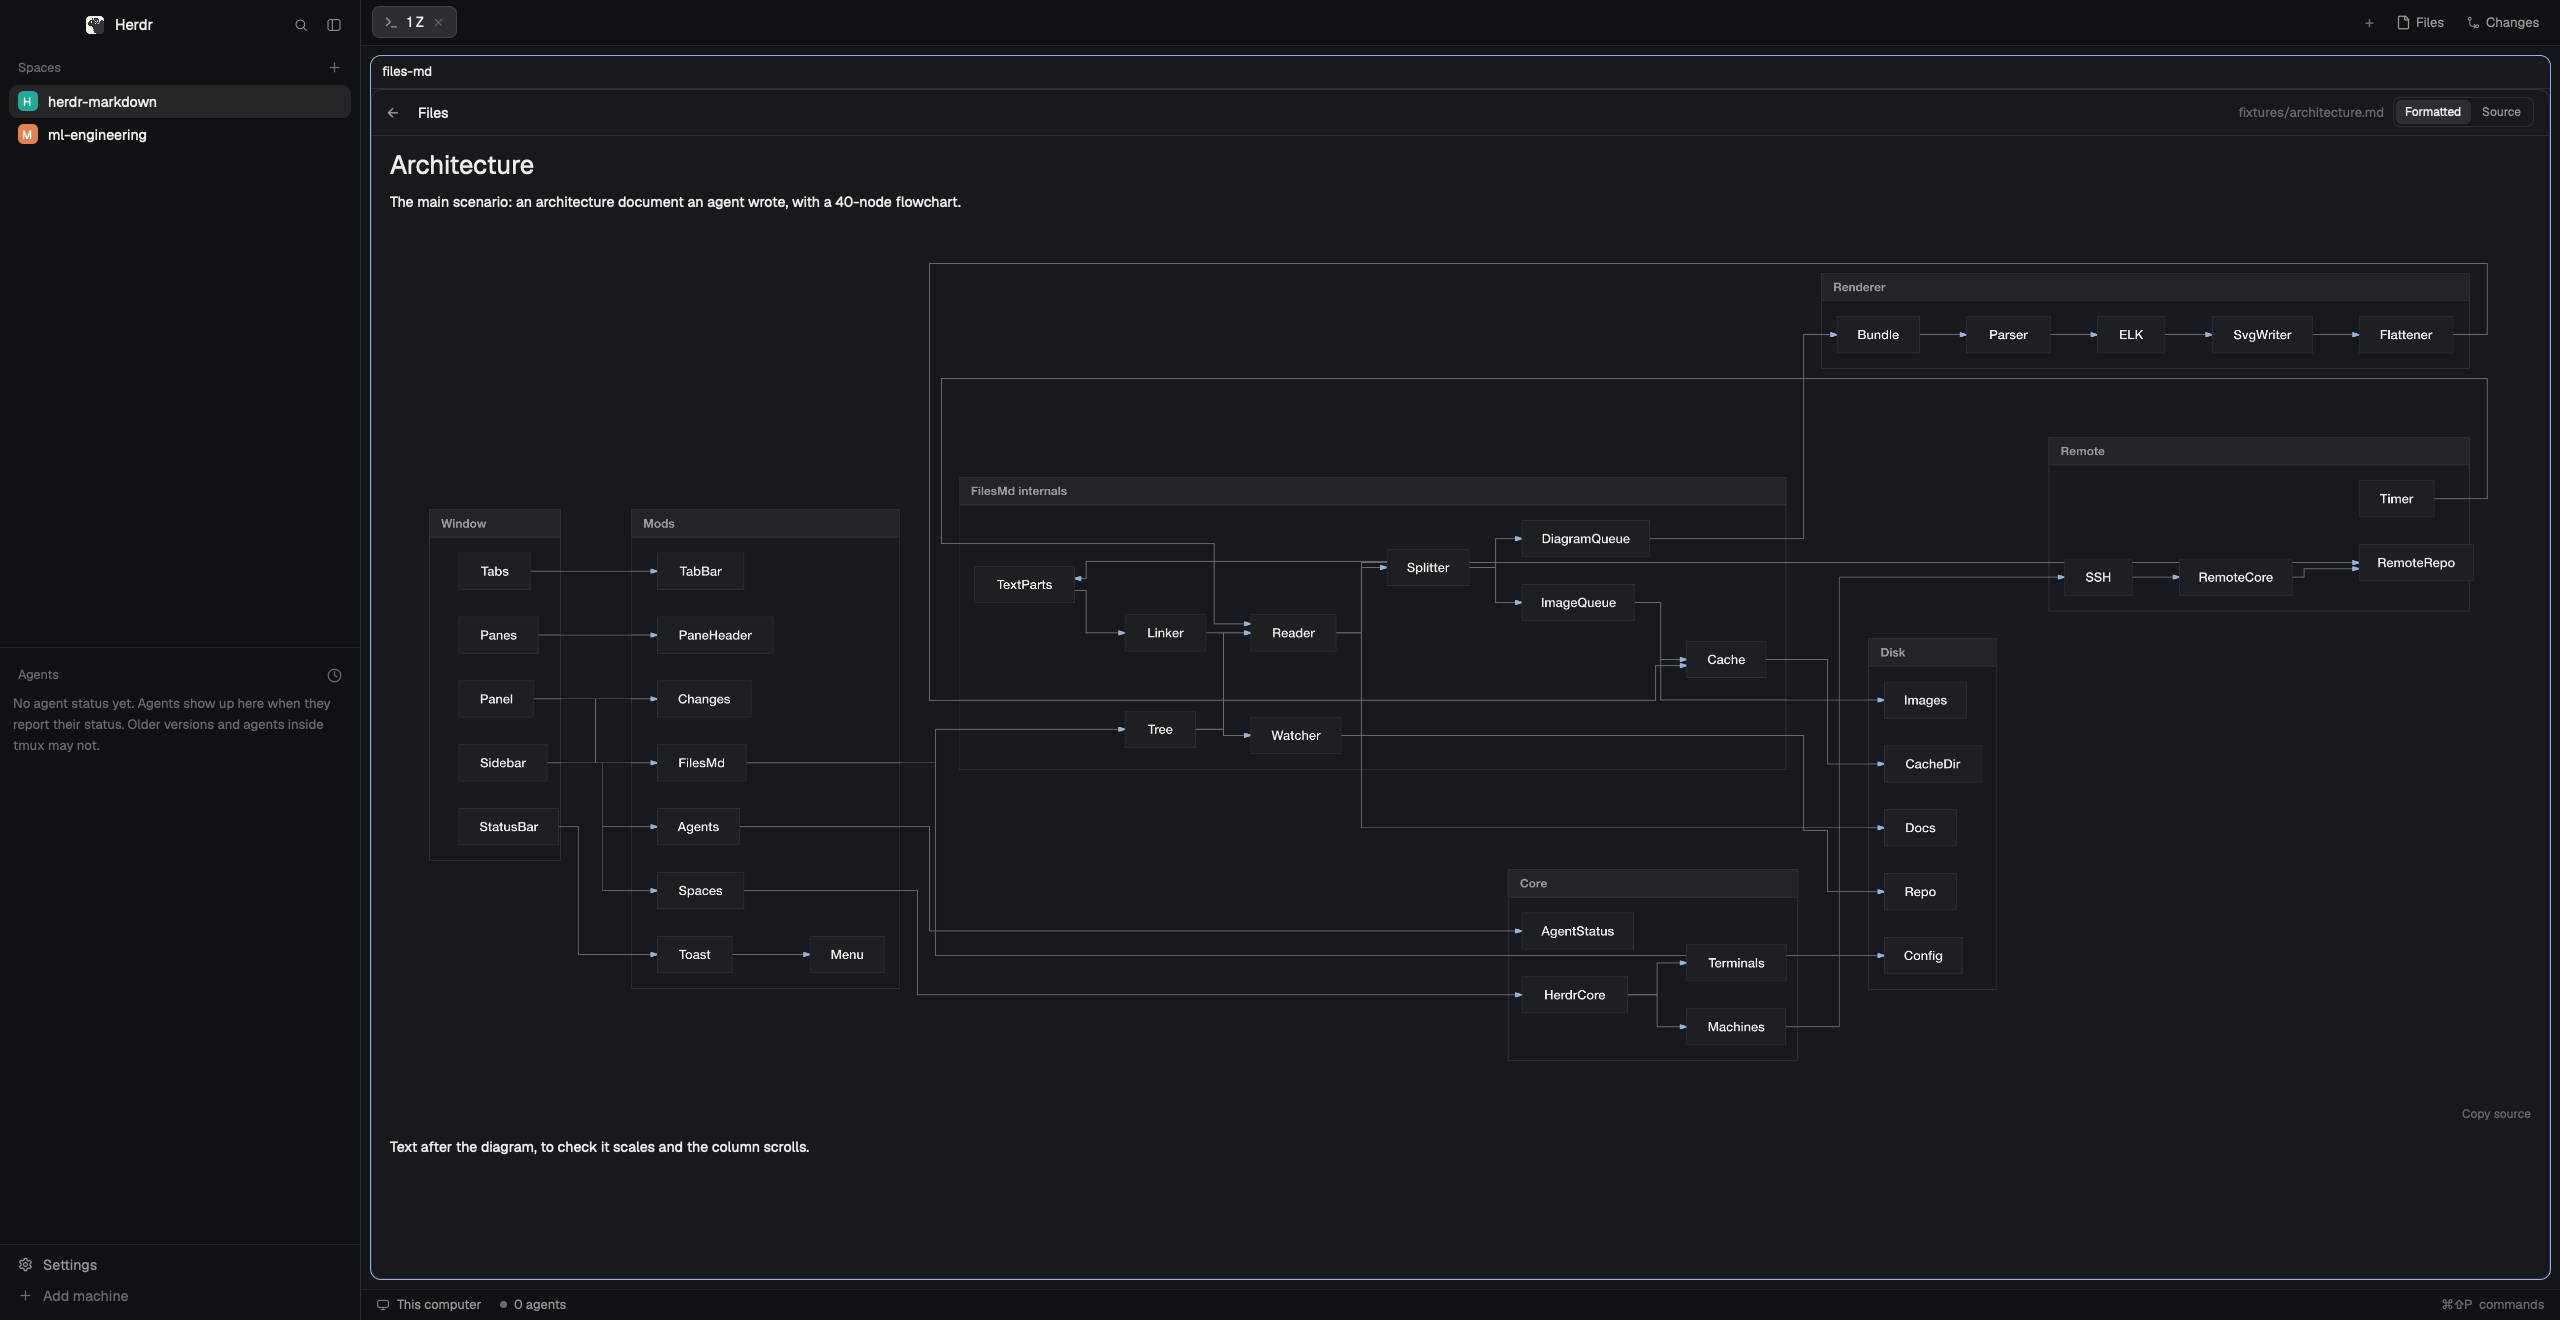
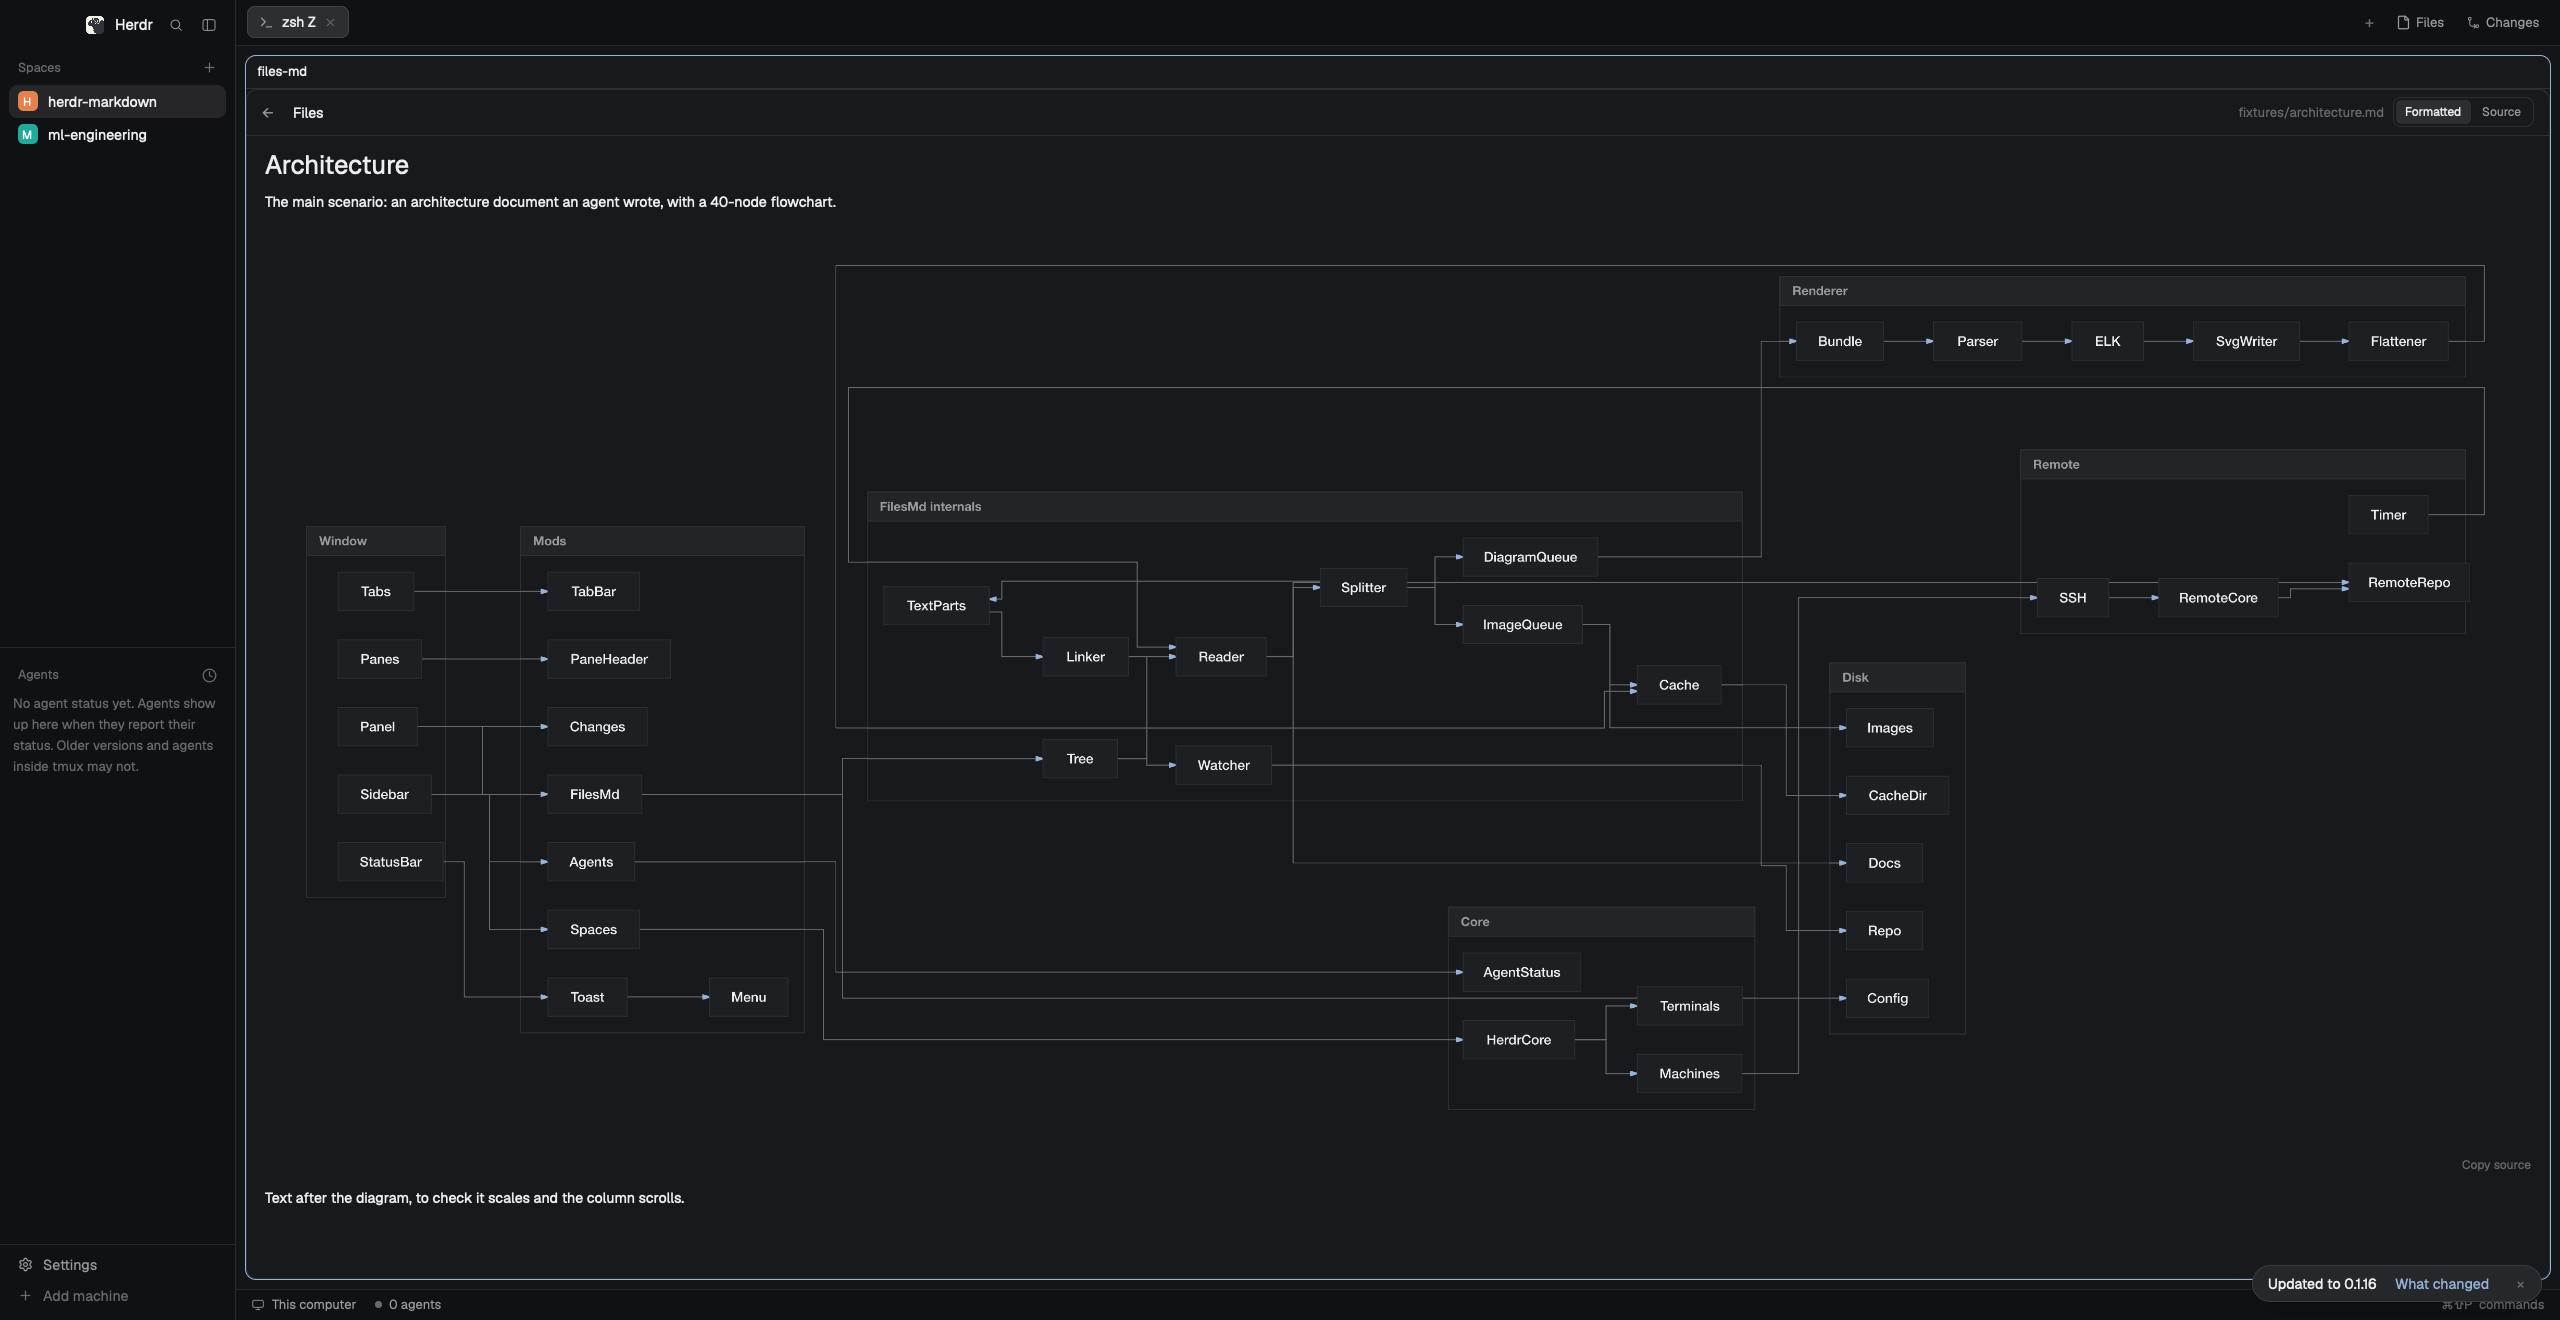
Record the Herdr 0.1.16 regression check
The shipped files mod is unchanged in 0.1.16, every API files-md uses is
present, herdr-app check passes, the dark screenshots were retaken and
look the same, and cmd-c still copies despite the new Edit menu. The
recipe now names both tested versions and notes that 0.1.16 fixed
herdr-app shot returning stale frames.

diff --git a/docs/QUALITY.md b/docs/QUALITY.md
@@ -75,7 +75,8 @@ Run against `fixtures/` in the app. Record pass or fail with the app version.
 | Switch layout and back; resize the panel to its minimum | robustness |
 | Focus a pane in a folder with no git repo | robustness |
 
-Each release keeps screenshots per theme in `docs/shots/<theme>/`, taken with
+Each release keeps screenshots per theme in `docs/shots/<theme>/` (dark: 0.1.16;
+light: 0.1.15), taken with
 `scripts/shots.sh <theme>` on the Mac (CI cannot run Herdr). The script opens
 each fixture in a zoomed `files-md` pane through `props.file`, so no clicks are
 needed; Herdr must be the front window while it runs. Look through them before
@@ -146,6 +147,12 @@ review is on us.
 After any Herdr app update: run `herdr-app check`, compare the shipped
 `mods/files/main.js` against the version we cloned, and re-run layer 3 if
 either changed.
+
+### Regression record
+
+| Date | App | Shipped `files` mod | Our APIs | `check` | Shots | Copy (`cmd-c`) |
+|---|---|---|---|---|---|---|
+| 2026-11-15 | 0.1.16 | identical to 0.1.15 | all present | pass | dark set retaken, unchanged | works (checked by Dane, despite the new Edit menu) |
 
 ## Known limits of this process
 

diff --git a/RECIPE.md b/RECIPE.md
@@ -156,11 +156,13 @@ text in `foreground`.
   QuickJS and the window waits. Limits are on size, not time.
 - **A symlink inside the folder that points outside it is followed**, as in
   the shipped tree.
-- **Herdr redraws only while its window is in front**: `herdr-app shot` shows
-  a stale frame otherwise.
+- **On Herdr 0.1.15, `herdr-app shot` returned a stale frame** while the window
+  was covered. 0.1.16 fixed this; `scripts/shots.sh` still brings Herdr forward.
 - **Licences**: the clone is Apache-2.0; elkjs is EPL-2.0 and patched, so its
   patched source ships in the repository's `vendor/` and its notices stay in
   the bundle. See `mods/files-md/THIRD-PARTY-NOTICES.md`.
+- Tested on Herdr 0.1.15 and 0.1.16 (macOS). The shipped `files` mod is
+  identical in both.
 - Windows and Linux paths are kept from the shipped mod but untested.
 
 ## Done when

diff --git a/docs/renderer-matrix.md b/docs/renderer-matrix.md
@@ -81,7 +81,7 @@ call already running, so R14's limit has to be on input size, not time.
 
 ## Spike mechanics, for the record
 
-- `herdr-app shot` returns the last frame drawn. While Herdr's window is
+- (Fixed in 0.1.16, where `shot` gives the current frame.) On 0.1.15, `herdr-app shot` returned the last frame drawn. While Herdr's window is
   covered by another app, `render()` is not called at all, so shots go stale
   and timings that depend on drawing cannot be taken. The spike's data path
   kept running (checked with a log file).
